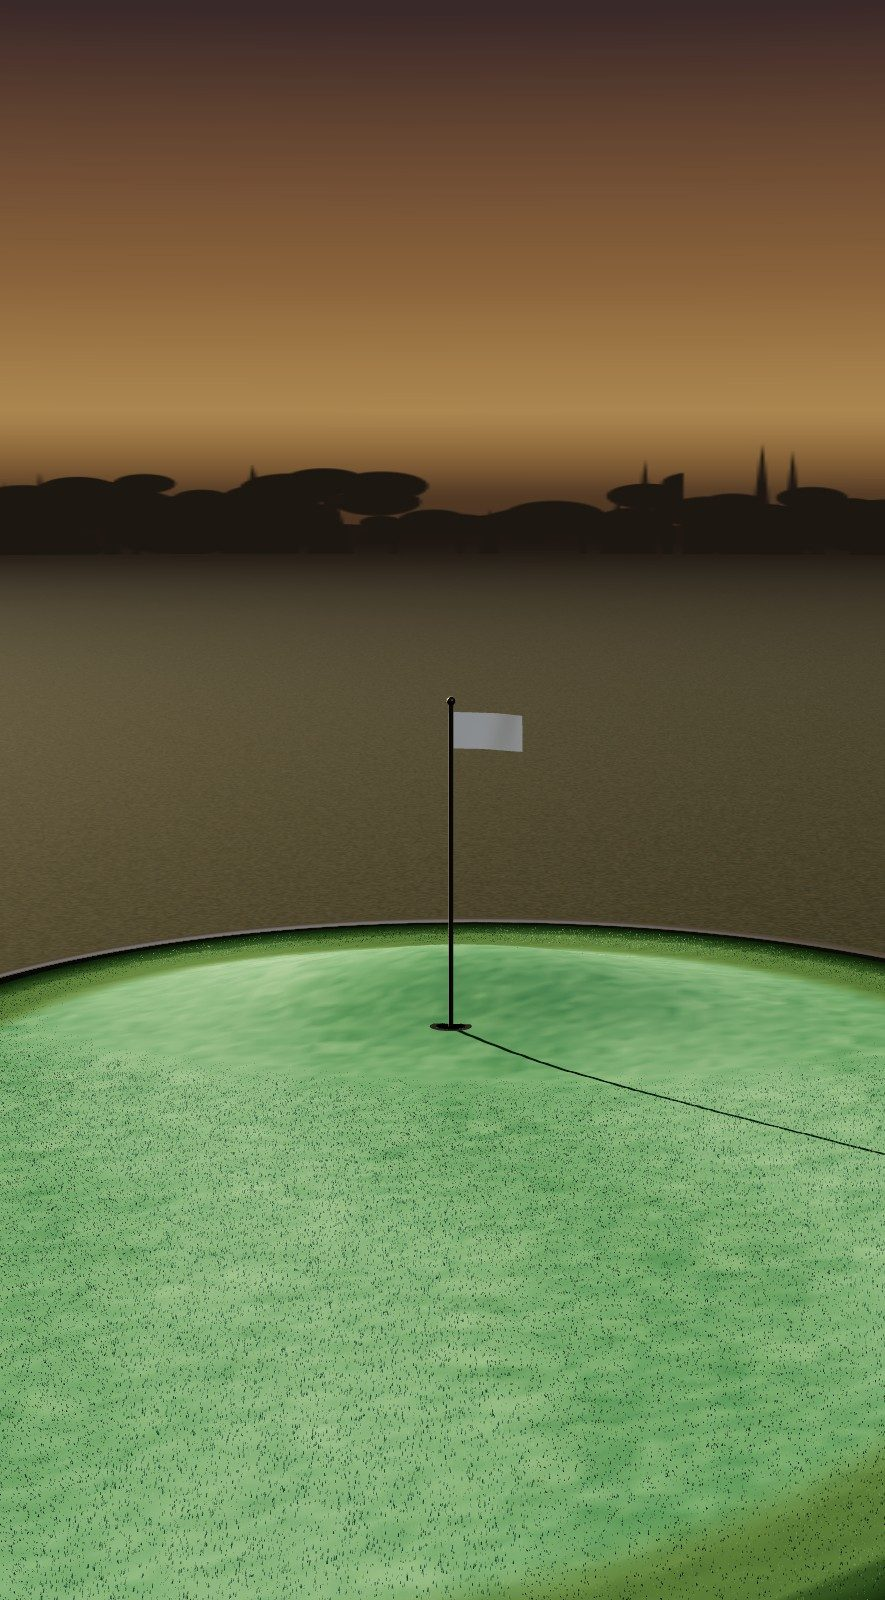
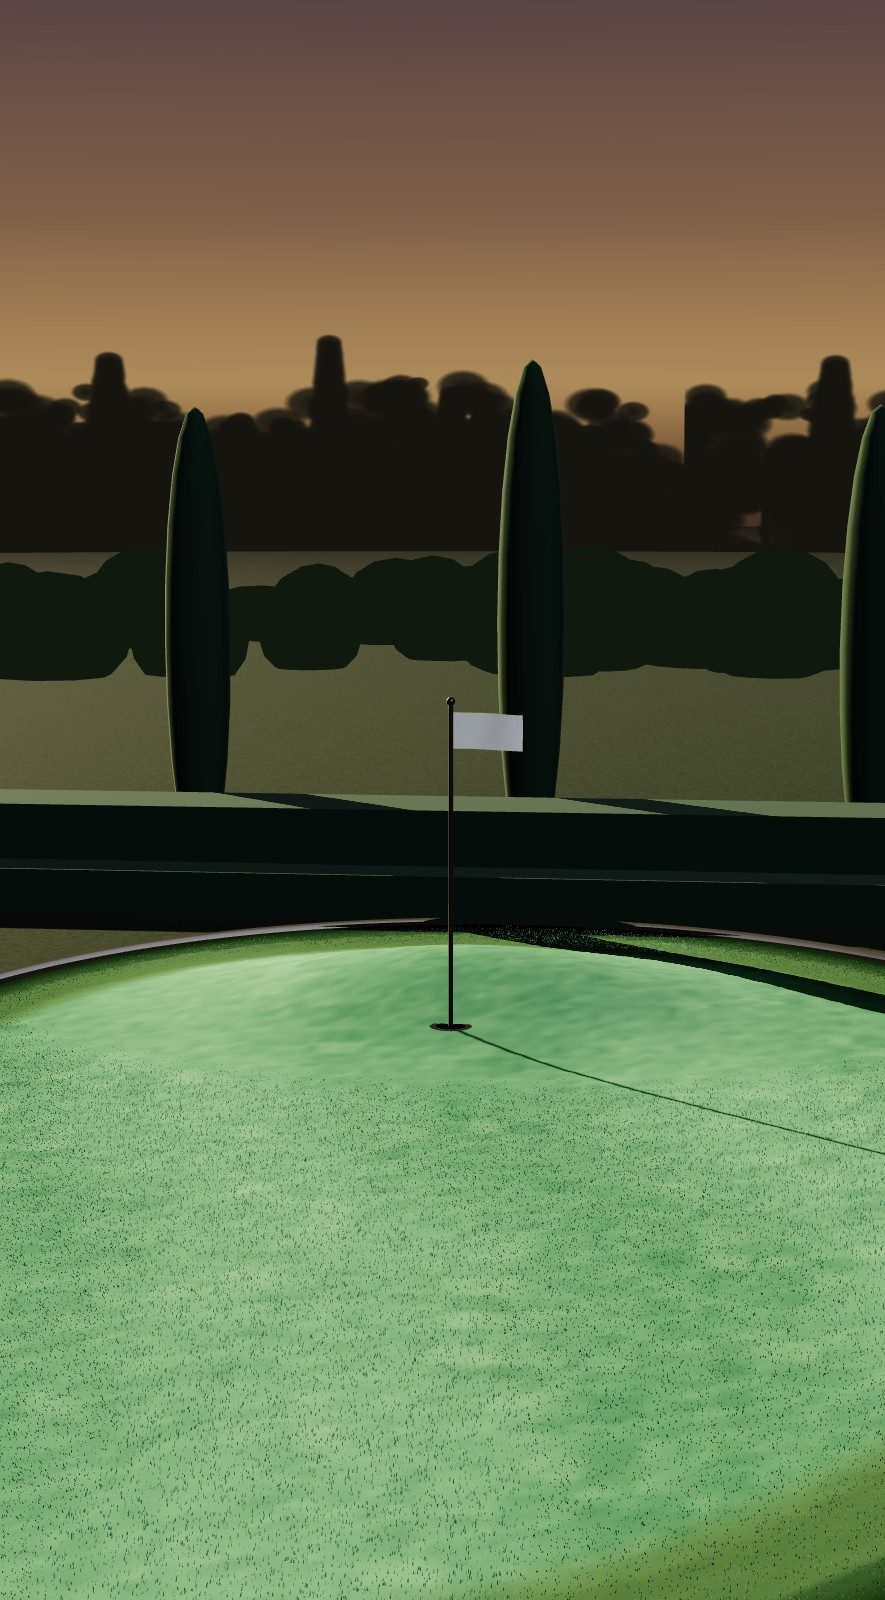
Hero: fix the sunken-turf glitch and set the green in a real garden
Fix
- The lawn now has a hole cut under the green (just outside the coping), with
  a dark basin beneath, so Center Bowl and false fronts can dip below lawn
  level without the lawn plane showing through the turf

Garden
- Formal clipped hedge with a lower step and planting beds behind the green,
  returns on both sides, clipped balls at the ends, five Italian cypress
  columns against the last light
- Two specimen trees kept away from the headline; an instanced, unlit shrub
  mass at 30-40 m; a feathered high-resolution treeline ring at 85 m replaces
  the crude silhouette blobs
- Stone terrace with two path lights beside the green; darker, greener lawn;
  thinner amber band with a cooler dusk above it; wider shadow frustum

Camera and captures
- Landscape look target raised slightly for more sky
- Posters and share image re-captured from the new scene on the GPU

diff --git a/terraputt-hero.html b/terraputt-hero.html
@@ -794,7 +794,7 @@ function sampleTurfHeight(x, z, fn, intensity) {
 function init() {
   scene = new THREE.Scene();
   scene.background = null;
-  scene.fog = new THREE.Fog(0x1e1712, 22, 110);   // warm dusk haze; matches the sky dome at the horizon
+  scene.fog = new THREE.Fog(0x1e1712, 24, 150);   // warm dusk haze; matches the sky dome at the horizon
 
   const host = document.getElementById('canvas-host');
   const w = host.clientWidth, h = host.clientHeight;
@@ -1416,9 +1416,9 @@ function init() {
   const SHADOW_RES = LOW_POWER ? 2048 : 4096;
   key.shadow.mapSize.width = SHADOW_RES;
   key.shadow.mapSize.height = SHADOW_RES;
-  key.shadow.camera.left = -10; key.shadow.camera.right = 10;
-  key.shadow.camera.top = 10;  key.shadow.camera.bottom = -10;
-  key.shadow.camera.near = 0.1; key.shadow.camera.far = 30;
+  key.shadow.camera.left = -18; key.shadow.camera.right = 18;
+  key.shadow.camera.top = 18;  key.shadow.camera.bottom = -18;
+  key.shadow.camera.near = 0.1; key.shadow.camera.far = 60;
   key.shadow.bias = -0.00015;
   key.shadow.normalBias = 0.035;   // was 0.06 — less "peter panning" so shadows stay attached to raised topology
   key.shadow.radius = 5;           // soft penumbra; the relief still reads, the ground shadow stops reading as a moat
@@ -1428,7 +1428,7 @@ function init() {
   // behind the green, the camera-facing surfaces (flag, front of ball,
   // near-side of mounds) need a soft wrap-around fill so they don't
   // drop into pure silhouette.
-  const fill = new THREE.DirectionalLight(0x6a8cc8, 0.45);
+  const fill = new THREE.DirectionalLight(0x6a8cc8, 0.62);
   fill.position.set(5, 4.5, 7);
   scene.add(fill);
 
@@ -1442,7 +1442,7 @@ function init() {
   // Ambient/hemi dropped — these were the main culprits lifting the
   // shadow side into a middle-grey and washing out topology relief.
   scene.add(new THREE.AmbientLight(0x342a22, 0.30));               // warm dusk bounce
-  scene.add(new THREE.HemisphereLight(0x4a6284, 0x140e08, 0.26));  // cool sky over warm ground
+  scene.add(new THREE.HemisphereLight(0x4a6284, 0x140e08, 0.38));  // cool sky over warm ground
 
   window.addEventListener('resize', onResize);
 }
@@ -1459,13 +1459,13 @@ function buildEnvironment() {
   skyCanvas.width = 4; skyCanvas.height = 1024;
   const sg = skyCanvas.getContext('2d');
   const sky = sg.createLinearGradient(0, 0, 0, 1024);
-  sky.addColorStop(0.00, '#06070c');   // zenith: deep, cool
-  sky.addColorStop(0.34, '#12111a');
-  sky.addColorStop(0.44, '#2b2020');
-  sky.addColorStop(0.475, '#6a4527');
-  sky.addColorStop(0.492, '#9a6430');  // last light at the horizon
-  sky.addColorStop(0.503, '#3b2a1c');
-  sky.addColorStop(0.53, '#1a1410');
+  sky.addColorStop(0.00, '#06070d');   // zenith: deep, cool
+  sky.addColorStop(0.30, '#12131e');
+  sky.addColorStop(0.42, '#2a2431');   // dusk mauve
+  sky.addColorStop(0.466, '#5e4230');
+  sky.addColorStop(0.488, '#a06a38');  // last light: a thin amber band at the horizon
+  sky.addColorStop(0.501, '#3a2a1e');
+  sky.addColorStop(0.53, '#17130f');
   sky.addColorStop(1.00, '#0c0b0a');
   sg.fillStyle = sky; sg.fillRect(0, 0, 4, 1024);
   const skyTex = new THREE.CanvasTexture(skyCanvas);
@@ -1486,24 +1486,51 @@ function buildEnvironment() {
   for (let i = 0; i < 512 * 512; i++) {
     const n = (Math.random() - 0.5) * 22;
     const m = (Math.random() - 0.5) * 8;
-    gImg.data[i*4]     = Math.max(0, Math.min(255, 36 + n + m));
-    gImg.data[i*4 + 1] = Math.max(0, Math.min(255, 38 + n));
-    gImg.data[i*4 + 2] = Math.max(0, Math.min(255, 26 + n - m));
+    gImg.data[i*4]     = Math.max(0, Math.min(255, 30 + n + m));
+    gImg.data[i*4 + 1] = Math.max(0, Math.min(255, 40 + n));
+    gImg.data[i*4 + 2] = Math.max(0, Math.min(255, 22 + n - m));
     gImg.data[i*4 + 3] = 255;
   }
   gctx.putImageData(gImg, 0, 0);
   const groundTex = new THREE.CanvasTexture(gCanvas);
   groundTex.wrapS = groundTex.wrapT = THREE.RepeatWrapping;
-  groundTex.repeat.set(18, 18);
   groundTex.anisotropy = 8;
+  /* The lawn is a large plane with a hole cut under the green (just outside
+     the coping), so a bowl or false front can dip below lawn level without
+     the lawn showing through the turf. Below the turf is dark, as it should be. */
+  const lawnShape = new THREE.Shape();
+  lawnShape.moveTo(-120, -120); lawnShape.lineTo(120, -120); lawnShape.lineTo(120, 120); lawnShape.lineTo(-120, 120); lawnShape.closePath();
+  const hole = new THREE.Path();
+  const HN = 192;
+  for (let i = 0; i < HN; i++) {
+    const th = (i / HN) * Math.PI * 2;
+    const r = R_BASE * edgeShape(th) * 0.992 + 0.34 + 0.004;   // coping outer edge
+    // Shape space is (x, y); the plane is rotated -90° about X so shape y -> world -z.
+    // edgeShape is defined in the green's local frame where local y = -world z, so shape y = local y.
+    const px = Math.cos(th) * r, py = Math.sin(th) * r;
+    if (i === 0) hole.moveTo(px, py); else hole.lineTo(px, py);
+  }
+  hole.closePath();
+  lawnShape.holes.push(hole);
+  const lawnGeom = new THREE.ShapeGeometry(lawnShape, 1);
+  // ShapeGeometry UVs are in shape units; scale the texture to ~13 world units per tile.
+  groundTex.repeat.set(0.075, 0.075);
   groundFloor = new THREE.Mesh(
-    new THREE.PlaneGeometry(240, 240, 1, 1),
-    new THREE.MeshStandardMaterial({ map: groundTex, color: 0x6e6c5c, roughness: 1.0, metalness: 0.0 })
+    lawnGeom,
+    new THREE.MeshStandardMaterial({ map: groundTex, color: 0x56624a, roughness: 1.0, metalness: 0.0 })
   );
   groundFloor.rotation.x = -Math.PI / 2;
   groundFloor.position.y = -0.02;
   groundFloor.receiveShadow = true;
   scene.add(groundFloor);
+  // A dark basin under the green so nothing bright shows if the turf dips deep.
+  const basin = new THREE.Mesh(
+    new THREE.CircleGeometry(R_BASE * 1.5, 96),
+    new THREE.MeshStandardMaterial({ color: 0x0b0a08, roughness: 1.0 })
+  );
+  basin.rotation.x = -Math.PI / 2;
+  basin.position.y = -0.6;
+  scene.add(basin);
 
   /* Stone coping: a low limestone edge that follows the green's
      organic outline, so the surface reads as built into the garden. */
@@ -1540,41 +1567,7 @@ function buildEnvironment() {
   coping.receiveShadow = true;
   scene.add(coping);
 
-  /* Tree line: silhouettes on a ring far behind the scene, softened by
-     the fog so they sit against the last light rather than in front of it. */
-  const tCanvas = document.createElement('canvas');
-  tCanvas.width = 2048; tCanvas.height = 384;
-  const tctx = tCanvas.getContext('2d');
-  tctx.clearRect(0, 0, 2048, 384);
-  tctx.fillStyle = '#12160f';
-  // low hedge / understorey along the whole band
-  tctx.beginPath(); tctx.moveTo(0, 384);
-  for (let x = 0; x <= 2048; x += 16) tctx.lineTo(x, 352 + Math.sin(x * 0.011) * 6 + Math.sin(x * 0.037) * 4);
-  tctx.lineTo(2048, 384); tctx.closePath(); tctx.fill();
-  // canopy: overlapping rounded crowns, a few tall cypress spikes
-  let seed = 7;
-  const rnd = () => { seed = (seed * 9301 + 49297) % 233280; return seed / 233280; };
-  for (let i = 0; i < 150; i++) {
-    const x = rnd() * 2048, h = 55 + rnd() * 125, w = 34 + rnd() * 60;
-    if (rnd() < 0.18) { // cypress
-      tctx.beginPath(); tctx.moveTo(x - w * 0.18, 360); tctx.lineTo(x, 360 - h * 1.3); tctx.lineTo(x + w * 0.18, 360); tctx.closePath(); tctx.fill();
-    } else {
-      for (let k = 0; k < 4; k++) {
-        const cx = x + (rnd() - 0.5) * w * 0.9, cy = 360 - h * (0.45 + rnd() * 0.45), r = w * (0.26 + rnd() * 0.2);
-        tctx.beginPath(); tctx.arc(cx, cy, r, 0, Math.PI * 2); tctx.fill();
-      }
-      tctx.fillRect(x - 2, 360 - h * 0.5, 4, h * 0.5);
-    }
-  }
-  const treeTex = new THREE.CanvasTexture(tCanvas);
-  treeTex.wrapS = THREE.RepeatWrapping;
-  treeTex.repeat.set(4, 1);
-  const trees = new THREE.Mesh(
-    new THREE.CylinderGeometry(82, 82, 7.5, 128, 1, true),
-    new THREE.MeshBasicMaterial({ map: treeTex, transparent: true, side: THREE.BackSide, depthWrite: false, fog: true })
-  );
-  trees.position.y = 2.9;
-  scene.add(trees);
+  buildGarden();
 }
 
 function easeInOut(t) { return t<0.5 ? 4*t*t*t : 1 - Math.pow(-2*t+2, 3)/2; }
@@ -1747,10 +1740,195 @@ function updateGeometry(t) {
 }
 
 /* =================================================================
+   Garden — the designed landscape the green belongs to: clipped
+   hedges as a backdrop, trees with real volume, a stone terrace with
+   path lights where the viewer stands, and a far ring of trees for
+   the horizon. Everything is dark at dusk and lit from behind.
+   ================================================================= */
+function buildGarden() {
+  const leaf  = new THREE.MeshStandardMaterial({ color: 0x142019, roughness: 1.0, metalness: 0.0 });
+  const leafFar = new THREE.MeshBasicMaterial({ color: 0x0f170f, fog: true });
+  const hedge = new THREE.MeshStandardMaterial({ color: 0x182618, roughness: 1.0, metalness: 0.0 });
+  const bark  = new THREE.MeshStandardMaterial({ color: 0x2a2119, roughness: 0.95, metalness: 0.0 });
+
+  // Clipped hedge blocks behind the green, a broken line with gaps for depth
+  const hedges = [
+    // x, z, length(x), height, depth(z)
+    [ 0.0, -8.0, 14.0, 0.82, 0.9],   // main clipped hedge across the back
+    [ 0.0, -7.1, 14.6, 0.38, 0.5],   // lower step in front of it
+    [-7.3, -4.9,  0.9, 0.82, 5.4],   // return down the left side
+    [ 7.3, -6.4,  0.9, 0.82, 2.6]    // short return on the right, open toward the terrace
+  ];
+  for (const [x, z, l, h, d] of hedges) {
+    const m = new THREE.Mesh(new THREE.BoxGeometry(l, h, d), hedge);
+    m.position.set(x, h / 2 - 0.02, z);
+    m.castShadow = true; m.receiveShadow = true;
+    scene.add(m);
+  }
+  // A dark planting bed under the hedge line so it sits in the ground rather than on it
+  const bedMat = new THREE.MeshStandardMaterial({ color: 0x100e0a, roughness: 1.0 });
+  for (const [x, z, w, d] of [[0.0, -7.55, 15.6, 2.0], [-7.3, -4.6, 1.9, 6.4], [7.3, -6.2, 1.9, 3.6]]) {
+    const bed = new THREE.Mesh(new THREE.PlaneGeometry(w, d), bedMat);
+    bed.rotation.x = -Math.PI / 2;
+    bed.position.set(x, -0.012, z);
+    bed.receiveShadow = true;
+    scene.add(bed);
+  }
+  // Two clipped balls at the terrace corners
+  for (const [x, z, r] of [[-7.3, -8.0, 0.5], [7.3, -8.0, 0.5]]) {
+    const b = new THREE.Mesh(new THREE.SphereGeometry(r, 18, 14), hedge);
+    b.position.set(x, r - 0.05, z);
+    b.castShadow = true; b.receiveShadow = true;
+    scene.add(b);
+  }
+
+  // Clipped columns (cypress) behind the hedge, a formal rhythm against the last light
+  const colGeom = new THREE.SphereGeometry(1, 10, 12);
+  for (const x of [-6, -3, 0, 3, 6]) {
+    const h = 4.2 + (Math.abs(x) < 1 ? 0.4 : 0);
+    const c = new THREE.Mesh(colGeom, hedge);
+    c.scale.set(0.3, h / 2, 0.3);
+    c.position.set(x, h / 2 - 0.02, -9.0);
+    c.castShadow = true; c.receiveShadow = true;
+    scene.add(c);
+  }
+
+  // Trees: a trunk and overlapping crowns, low-poly so they read soft
+  const crownGeom = new THREE.SphereGeometry(1, 12, 10);
+  const trunkGeom = new THREE.CylinderGeometry(0.09, 0.14, 1, 8);
+  function tree(x, z, s, seedBits) {
+    const g = new THREE.Group();
+    const trunkH = 2.3 * s;
+    const t = new THREE.Mesh(trunkGeom, bark);
+    t.scale.set(s, trunkH, s);
+    t.position.y = trunkH / 2;
+    t.castShadow = true;
+    g.add(t);
+    const crowns = [[0, 2.7, 0, 1.15], [0.7, 3.0, 0.4, 0.95], [-0.7, 3.1, -0.3, 0.9], [0.2, 3.7, 0.15, 0.85], [0.9, 3.6, -0.5, 0.75], [-0.5, 3.9, 0.6, 0.7], [0.1, 4.3, 0, 0.6]];
+    crowns.forEach(([cx, cy, cz, cr], i) => {
+      const c = new THREE.Mesh(crownGeom, leaf);
+      const jitter = 1 + (((seedBits >> i) & 1) ? 0.08 : -0.06);
+      c.scale.setScalar(cr * s * jitter);
+      c.position.set(cx * s, cy * s, cz * s);
+      c.castShadow = true; c.receiveShadow = true;
+      g.add(c);
+    });
+    g.position.set(x, -0.02, z);
+    scene.add(g);
+    return g;
+  }
+  // Mid-distance trees around the back and sides
+  tree( 23.0, -12.0, 1.15, 1);
+  tree( 19.0,   9.5, 0.95, 3);
+  // Woodland edge on the horizon: hundreds of overlapping, flattened crowns in one
+  // instanced draw. Low and dense, so it reads as a soft dark band under the last light.
+  let seed = 11;
+  const rnd = () => { seed = (seed * 9301 + 49297) % 233280; return seed / 233280; };
+  const WOOD_N = 480;
+  const wood = new THREE.InstancedMesh(new THREE.SphereGeometry(1, 10, 8), leafFar, WOOD_N);
+  const dummy = new THREE.Object3D();
+  for (let i = 0; i < WOOD_N; i++) {
+    const th = rnd() * Math.PI * 2;
+    const r = 30 + rnd() * 10;
+    const sx = 0.8 + rnd() * 0.9, sy = (0.55 + rnd() * 0.55), sz = 0.8 + rnd() * 0.7;
+    dummy.position.set(Math.cos(th) * r, sy * 0.5 + rnd() * 0.4, Math.sin(th) * r);
+    dummy.scale.set(sx, sy, sz);
+    dummy.rotation.y = rnd() * Math.PI;
+    dummy.updateMatrix();
+    wood.setMatrixAt(i, dummy.matrix);
+  }
+  wood.instanceMatrix.needsUpdate = true;
+  scene.add(wood);
+
+  // Far treeline: a feathered silhouette band on a distant ring. Many small soft
+  // clumps per tree so the canopy edge is ragged, never a hard blob.
+  const tCanvas = document.createElement('canvas');
+  tCanvas.width = 4096; tCanvas.height = 512;
+  const tctx = tCanvas.getContext('2d');
+  tctx.clearRect(0, 0, 4096, 512);
+  const clump = (cx, cy, r, a) => {
+    const g = tctx.createRadialGradient(cx, cy, r * 0.15, cx, cy, r);
+    g.addColorStop(0, 'rgba(12,17,12,' + a + ')');
+    g.addColorStop(0.7, 'rgba(12,17,12,' + (a * 0.85) + ')');
+    g.addColorStop(1, 'rgba(12,17,12,0)');
+    tctx.fillStyle = g; tctx.beginPath(); tctx.arc(cx, cy, r, 0, Math.PI * 2); tctx.fill();
+  };
+  // understorey: a continuous soft band along the bottom
+  for (let x = -40; x < 4136; x += 18) clump(x, 470 + Math.sin(x * 0.013) * 12, 60 + Math.sin(x * 0.031) * 18, 1);
+  for (let i = 0; i < 150; i++) {
+    const x = rnd() * 4096;
+    if (rnd() < 0.22) {            // conifer: a narrow stack of clumps
+      const h = 220 + rnd() * 220, w = 46 + rnd() * 30;
+      for (let k = 0; k < 40; k++) { const f = k / 39; clump(x + (rnd() - 0.5) * w * (1 - f) * 0.35, 470 - h * f, w * (1 - f * 0.78) * 0.62 + 9, 1); }
+    } else {                       // broadleaf: an ellipse of many small clumps
+      const h = 150 + rnd() * 200, w = 120 + rnd() * 200;
+      const cy = 470 - h * 0.62;
+      for (let k = 0; k < 42; k++) {
+        const a = rnd() * Math.PI * 2, d = Math.sqrt(rnd());
+        clump(x + Math.cos(a) * d * w * 0.5, cy + Math.sin(a) * d * h * 0.42, 14 + rnd() * 26, 0.95);
+      }
+      tctx.fillStyle = 'rgba(12,17,12,1)'; tctx.fillRect(x - 5, cy, 10, 470 - cy);
+    }
+  }
+  const treeTex = new THREE.CanvasTexture(tCanvas);
+  treeTex.wrapS = THREE.RepeatWrapping;
+  treeTex.repeat.set(4, 1);
+  const treeline = new THREE.Mesh(
+    new THREE.CylinderGeometry(85, 85, 10, 128, 1, true),
+    new THREE.MeshBasicMaterial({ map: treeTex, transparent: true, side: THREE.BackSide, depthWrite: false, fog: true })
+  );
+  treeline.position.y = 5 - 1.0;
+  scene.add(treeline);
+
+  // Stone terrace: large pavers with dark joints, in the foreground where the viewer stands
+  const pCanvas = document.createElement('canvas');
+  pCanvas.width = 512; pCanvas.height = 512;
+  const p = pCanvas.getContext('2d');
+  p.fillStyle = '#5b544a'; p.fillRect(0, 0, 512, 512);            // joints
+  const cols = 2, rows = 3, J = 5;
+  for (let r = 0; r < rows; r++) for (let c = 0; c < cols; c++) {
+    const w = 512 / cols, h = 512 / rows;
+    const shade = 150 + Math.floor(((r * 7 + c * 13) % 5) * 5);
+    p.fillStyle = 'rgb(' + (shade + 4) + ',' + (shade - 4) + ',' + (shade - 18) + ')';
+    p.fillRect(c * w + J, r * h + J, w - J * 2, h - J * 2);
+  }
+  const pTex = new THREE.CanvasTexture(pCanvas);
+  pTex.wrapS = pTex.wrapT = THREE.RepeatWrapping;
+  pTex.repeat.set(5, 3);
+  pTex.anisotropy = 8;
+  const terrace = new THREE.Mesh(
+    new THREE.PlaneGeometry(6.5, 7.0),
+    new THREE.MeshStandardMaterial({ map: pTex, color: 0x9a9080, roughness: 0.9, metalness: 0.0 })
+  );
+  terrace.rotation.x = -Math.PI / 2;
+  terrace.position.set(9.5, -0.004, 2.0);
+  terrace.receiveShadow = true;
+  scene.add(terrace);
+
+  // Path lights along the terrace edge: a small warm glow on the coping and turf
+  const postGeom = new THREE.CylinderGeometry(0.035, 0.04, 0.52, 10);
+  const capGeom  = new THREE.CylinderGeometry(0.07, 0.05, 0.05, 12);
+  const postMat  = new THREE.MeshStandardMaterial({ color: 0x2a241e, roughness: 0.6, metalness: 0.5 });
+  const glowMat  = new THREE.MeshStandardMaterial({ color: 0xffd7a8, emissive: 0xffb872, emissiveIntensity: 2.2, roughness: 0.4 });
+  for (const [x, z] of [[6.4, 6.0], [9.2, 4.3]]) {
+    const post = new THREE.Mesh(postGeom, postMat);
+    post.position.set(x, 0.26, z);
+    post.castShadow = true;
+    scene.add(post);
+    const cap = new THREE.Mesh(capGeom, glowMat);
+    cap.position.set(x, 0.545, z);
+    scene.add(cap);
+    const pl = new THREE.PointLight(0xffb474, LOW_POWER ? 0.5 : 0.75, 5.5, 2);
+    pl.position.set(x, 0.5, z);
+    scene.add(pl);
+  }
+}
+
+/* =================================================================
    Camera — two composed poses (landscape / portrait) and a slow idle
    dolly. The product rests; the camera breathes.
    ================================================================= */
-const CAM_LANDSCAPE = { x: 5.6, y: 2.5,  z: 11.4, fov: 28, lookX: -1.85, lookY: 0.35, lookZ: 0.15 };
+const CAM_LANDSCAPE = { x: 5.6, y: 2.5,  z: 11.4, fov: 28, lookX: -1.85, lookY: 0.55, lookZ: 0.15 };
 const CAM_PORTRAIT  = { x: 1.4, y: 3.6,  z: 12.6, fov: 36, lookX: 0.2,  lookY: 1.9,  lookZ: -0.4 };
 let CAM = CAM_LANDSCAPE;
 function applyCameraPose(aspect) {
